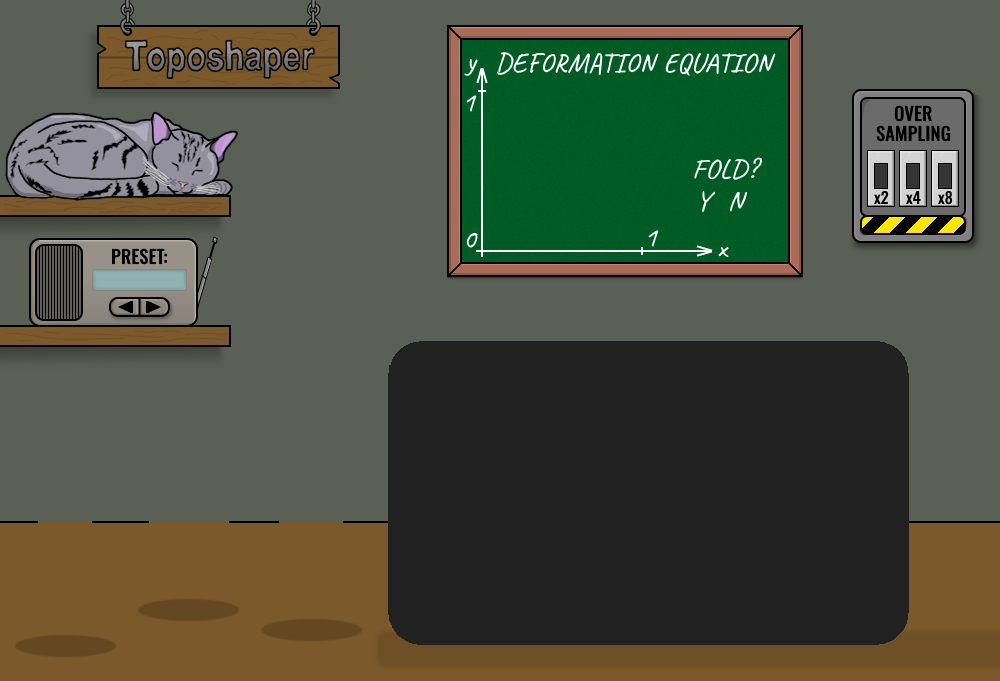
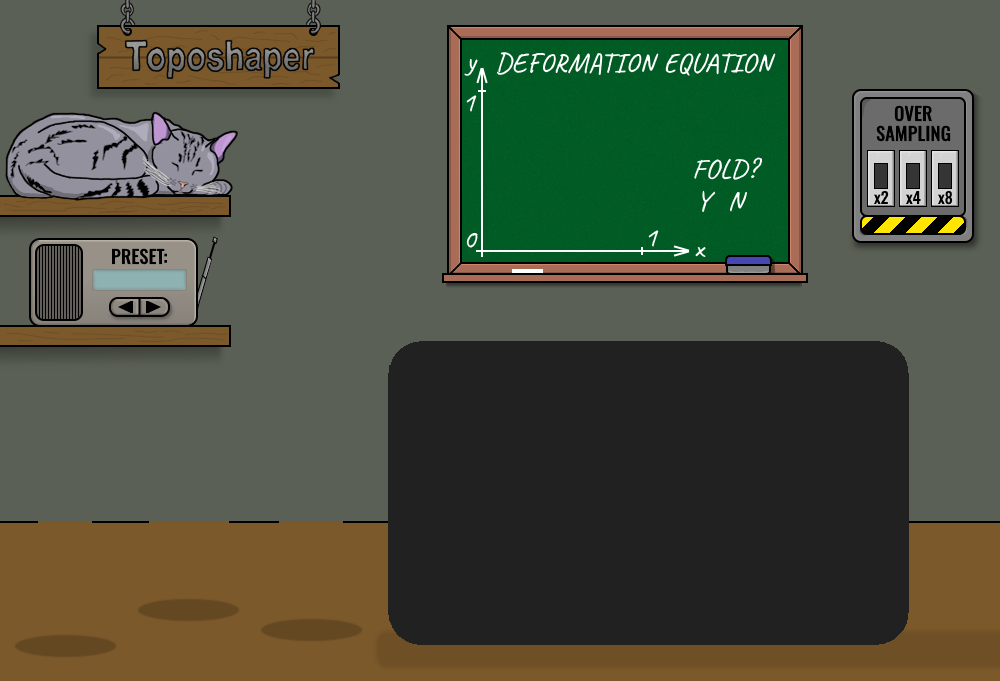
Added eraser (resetting curve to y=x) to warp curve editor

Changed region(s): [[0.434, 0.3392, 0.806, 0.4317]]

diff --git a/audio_plugin/source/WarpCurveEditor.cpp b/audio_plugin/source/WarpCurveEditor.cpp
@@ -2,12 +2,17 @@ namespace audio_plugin {
 namespace {
 // Printed unit square on the board, in component-local px.
 // Component bounds = board interior;
-constexpr float kUnitX = 20.0f;
-constexpr float kUnitY = 51.0f;
+constexpr float kUnitX = 40.0f;
+constexpr float kUnitY = 66.0f;
 constexpr float kUnitW = 160.0f;
 constexpr float kUnitH = 160.0f;
 constexpr float kCurveW = 2.6f;  // chalk stroke for the curve
 constexpr float kGridW = 1.0f;   // chalk stroke for the half grid
+
+// Invisible hit rectangle over the eraser sprite painted on the board art
+// (component-local px). PLACEHOLDER numbers: line them up with the actual
+// eraser in the art — the debug rect at the bottom of paint() shows the box.
+const auto kEraserZone = juce::Rectangle<int>(283, 230, 47, 18);
 
 // Widget-private geometry (not shared design tokens)
 constexpr float kPointR = 5.0f;
@@ -24,7 +29,38 @@ float snapped(float v) {
 WarpCurveEditor::WarpCurveEditor(WarpCurve& curve,
                                  std::function<void()> onChange)
     : curve_(curve), onChange_(std::move(onChange)) {
+  // Eraser: a flat invisible button on the painted sprite.
+  eraserBtn_.setAlpha(0.0f);
+  eraserBtn_.setMouseCursor(juce::MouseCursor::PointingHandCursor);
+  eraserBtn_.setTooltip("Eraser: wipe the curve back to y = x.");
+  eraserBtn_.onClick = [this] { resetToIdentity(); };
+  addAndMakeVisible(eraserBtn_);
+  // The board never resizes (PluginEditor::resized pins it), so the zone is
+  // set once here instead of in a resized() override.
+  eraserBtn_.setBounds(kEraserZone);
+
   startTimerHz(30);  // reflect edits made outside the editor (state load)
+}
+
+bool WarpCurveEditor::isIdentity() const {
+  if (curve_.numPoints() != 2)
+    return false;
+  const auto a = curve_.point(0);
+  const auto b = curve_.point(1);
+  const auto h = curve_.handleNode(0);
+  return a.x == 0.0f && a.y == 0.0f && b.x == 1.0f && b.y == 1.0f &&
+         h.x == 0.5f && h.y == 0.5f;
+}
+
+void WarpCurveEditor::resetToIdentity() {
+  if (isIdentity())
+    return;  // nothing to wipe: don't touch state, don't raise the star
+  while (curve_.numPoints() > 2)
+    curve_.removePoint(curve_.numPoints() - 2);
+  curve_.movePoint(0, 0.0f, 0.0f);
+  curve_.movePoint(1, 1.0f, 1.0f);
+  curve_.moveHandle(0, 0.5f, 0.5f);
+  notify();  // publishes the LUT, marks the preset dirty, repaints
 }
 
 juce::Rectangle<float> WarpCurveEditor::curveRect() const {
@@ -257,6 +293,7 @@ juce::String WarpCurveEditor::getTooltip() {
       !curveRect().contains(getMouseXYRelative().toFloat()))
     return {};
   return "Drag points and handles; double-click adds or removes points.\n"
-         "Alt: snap to the fine grid. Shift: vertical-only bend.";
+         "Alt: snap to the fine grid. Shift: vertical-only bend.\n"
+         "Eraser: wipe the curve to y = x.";
 }
 }  // namespace audio_plugin

diff --git a/audio_plugin/include/WarpCurveEditor.h b/audio_plugin/include/WarpCurveEditor.h
@@ -50,6 +50,9 @@ private:
   juce::Point<float> grabOffset_;
   float lockedHandleX_ = 0.5f;  // Shift-drag vertical lock
   Hit hover_;
+  juce::TextButton eraserBtn_;  // invisible hit zone over the painted eraser
+  void resetToIdentity();       // wipe the drawing back to the y=x curve
+  bool isIdentity() const;      // true when the curve already equals y=x
   juce::Font readoutFont_{
       juce::FontOptions{}};  // handwritten chalk (Caveat) for the x/y readout
 

diff --git a/audio_plugin/source/PluginEditor.cpp b/audio_plugin/source/PluginEditor.cpp
@@ -590,7 +590,7 @@ void PluginEditor::paint(juce::Graphics& g) {
 }
 
 void PluginEditor::resized() {
-  warpEditor.setBounds(462, 40, 326, 222);
+  warpEditor.setBounds(442, 25, 366, 258);
   foldSwitch.setBounds(690, 184, 76, 68);
   driveFlask.setBounds(10, 407, 110, 241);
   threshFlask.setBounds(134, 371, 110, 241);
